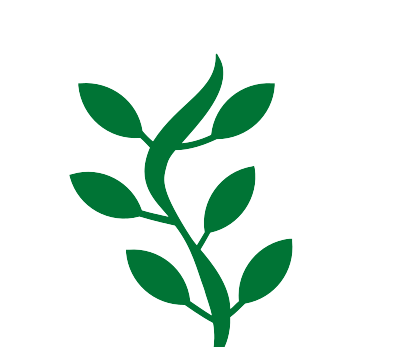
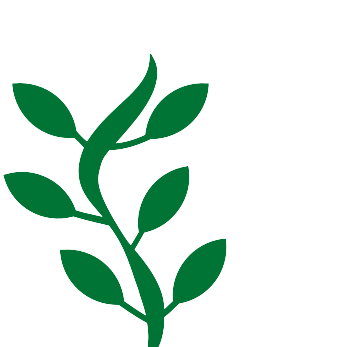
[24.03.27] Profile 페이지 배경 마크업

Changed region(s): [[0.0, 0.1441, 0.7418, 1.0], [0.4154, 0.7493, 0.4451, 0.7781]]

diff --git a/src/components/profile/ProfileHistory.tsx b/src/components/profile/ProfileHistory.tsx
@@ -2,6 +2,9 @@ import styled from 'styled-components';
 import mushroom from '../../assets/images/home/mushroom.png';
 import seashell from '../../assets/images/profile/seashell.png';
 import seashell2 from '../../assets/images/profile/seashell2.png';
+import seaweed from '../../assets/images/profile/seaweed1.png';
+import seaweed2 from '../../assets/images/profile/seaweed2.png';
+import Bubbles from './Bubbles.tsx';
 
 const Wrapper = styled.main`
   background: ${(props) => props.theme.profile.bgColor};
@@ -18,6 +21,7 @@ const Box = styled.section`
   background-color: ${(props) => props.theme.profile.boxColor};
   border-radius: 20px;
   padding: 30px;
+  z-index: 99;
 `;
 
 const PersonalInfo = styled.section`
@@ -120,23 +124,17 @@ const School = styled.span`
   margin-bottom: 10px;
 `;
 
-const Bubbles = styled.div``;
+const SeaweedWrapper = styled.div`
+  width: 100vw;
+  position: absolute;
+  bottom: 0;
+  display: flex;
+  justify-content: space-between;
+`;
 
-const BubbleLeft = styled.div``;
-
-const BubbleRight = styled.div``;
-
-const BubbleFirst = styled.div``;
-
-const BubbleSecond = styled.div``;
-
-const BubbleThird = styled.div``;
-
-const BubbleLast = styled.div``;
-
-const SeaweedWrapper = styled.div``;
-
-const Seaweed = styled.img``;
+const Seaweed = styled.img`
+  width: 15vw;
+`;
 
 function ProfileHistory() {
   return (
@@ -203,19 +201,10 @@ function ProfileHistory() {
           </EduContent>
         </Education>
       </Box>
-      <Bubbles>
-        <BubbleLeft>
-          <BubbleFirst />
-          <BubbleSecond />
-        </BubbleLeft>
-        <BubbleRight>
-          <BubbleThird />
-          <BubbleLast />
-        </BubbleRight>
-      </Bubbles>
+      <Bubbles />
       <SeaweedWrapper>
-        <Seaweed />
-        <Seaweed />
+        <Seaweed src={seaweed} />
+        <Seaweed src={seaweed2} />
       </SeaweedWrapper>
     </Wrapper>
   );

diff --git a/src/components/profile/Bubbles.tsx b/src/components/profile/Bubbles.tsx
@@ -1,0 +1,73 @@
+import styled from 'styled-components';
+import { motion } from 'framer-motion';
+
+interface IBubbleProps {
+  left: string;
+}
+
+const Bubble = styled(motion.img)<IBubbleProps>`
+  width: 5%;
+  position: absolute;
+  left: ${(props) => props.left};
+  bottom: -10%;
+  opacity: 0;
+`;
+
+const bubbleVariants = (lineDelay: number) => ({
+  animate: {
+    y: [0, -window.innerHeight - 10],
+    opacity: [1, 0],
+    transition: {
+      repeat: Infinity,
+      duration: 5,
+      delay: lineDelay,
+    },
+  },
+});
+
+function Bubbles() {
+  const BUBBLE = '/src/assets/images/profile/bubble.png';
+
+  return (
+    <>
+      {/* cjt 번째 */}
+      {[0, 1, 2, 3, 4].map((i) => (
+        <Bubble
+          src={BUBBLE}
+          left="2vw"
+          variants={bubbleVariants(i)}
+          animate="animate"
+        />
+      ))}
+      {/* 두 번째 */}
+      {[0.5, 1.5, 2.5, 3.5, 4.5].map((i) => (
+        <Bubble
+          src={BUBBLE}
+          left="9vw"
+          variants={bubbleVariants(i)}
+          animate="animate"
+        />
+      ))}
+      {/* 세 번째 */}
+      {[0.5, 1.5, 2.5, 3.5, 4.5].map((i) => (
+        <Bubble
+          src={BUBBLE}
+          left="86vw"
+          variants={bubbleVariants(i)}
+          animate="animate"
+        />
+      ))}
+      {/* 네 번째 */}
+      {[0, 1, 2, 3, 4].map((i) => (
+        <Bubble
+          src={BUBBLE}
+          left="93vw"
+          variants={bubbleVariants(i)}
+          animate="animate"
+        />
+      ))}
+    </>
+  );
+}
+
+export default Bubbles;
